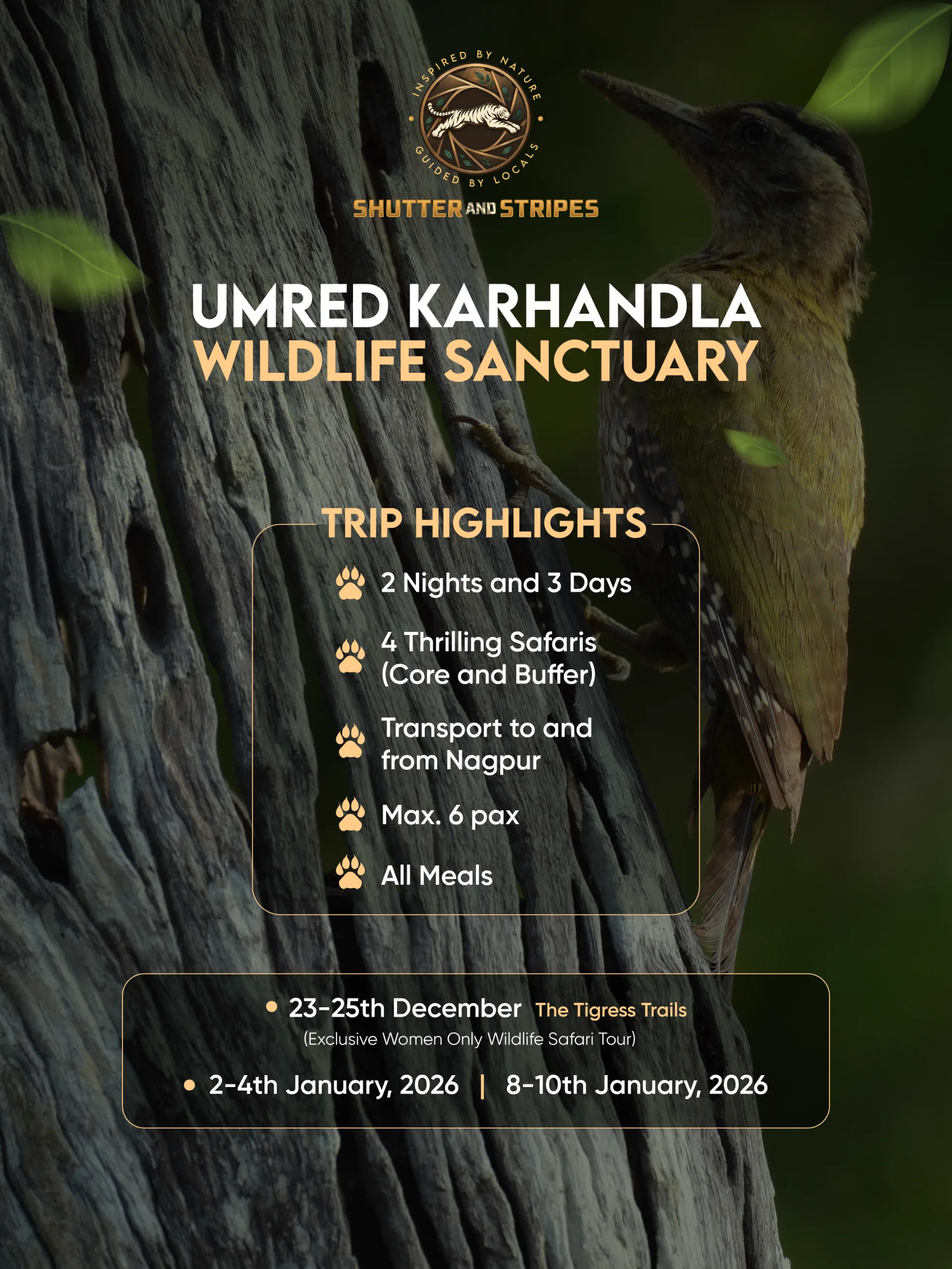
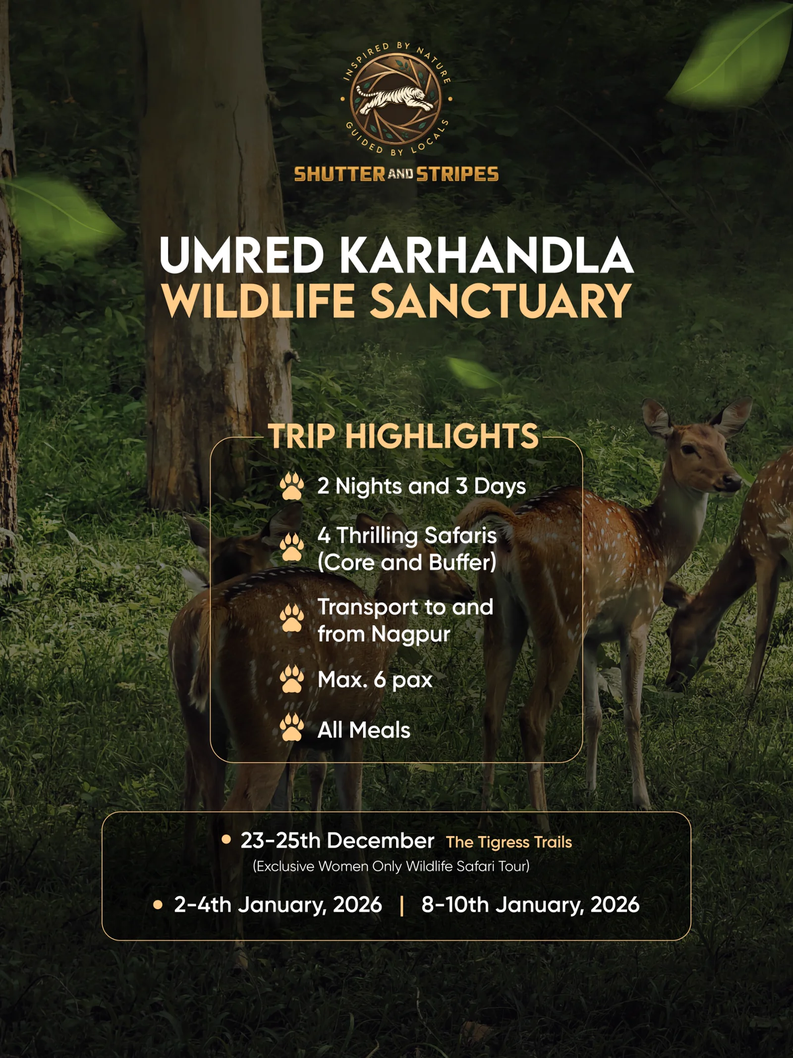
feat(client): journal cover image credit + new Umred/moharli images

diff --git a/src/pages/JournalDetailPage.tsx b/src/pages/JournalDetailPage.tsx
@@ -148,13 +148,29 @@ export const JournalDetailPage: React.FC = () => {
         </div>
 
         {/* Cover Photo */}
-        <div className="rounded-3xl overflow-hidden shadow-xl border border-forest/15 mb-10 h-72 sm:h-96">
-          <img
-            src={article.coverImage}
-            alt={article.title}
-            className="w-full h-full object-cover"
-          />
-        </div>
+        <figure className="mb-10">
+          <div className="rounded-3xl overflow-hidden shadow-xl border border-forest/15 h-72 sm:h-96">
+            <img
+              src={article.coverImage}
+              alt={article.title}
+              className="w-full h-full object-cover"
+            />
+          </div>
+          {article.coverImageCredit && (
+            <figcaption className="mt-2 text-right text-[11px] text-forest/50">
+              {article.coverImageCredit.split(/(\[[^\]]+\]\([^)]+\))/).map((part, i) => {
+                const m = /^\[([^\]]+)\]\(([^)]+)\)$/.exec(part);
+                return m ? (
+                  <a key={i} href={m[2]} target="_blank" rel="noreferrer" className="underline hover:text-forest">
+                    {m[1]}
+                  </a>
+                ) : (
+                  part
+                );
+              })}
+            </figcaption>
+          )}
+        </figure>
 
         {/* Lead Excerpt */}
         <div className="border-l-4 border-gold pl-6 py-2 mb-10">

diff --git a/src/types/index.ts b/src/types/index.ts
@@ -158,6 +158,7 @@ export interface JournalArticle {
   metaDescription?: string;
   keywords?: string[];
   coverImage: string;
+  coverImageCredit?: string;
   author: string;
   readTime: string;
   destinationTag?: string;
